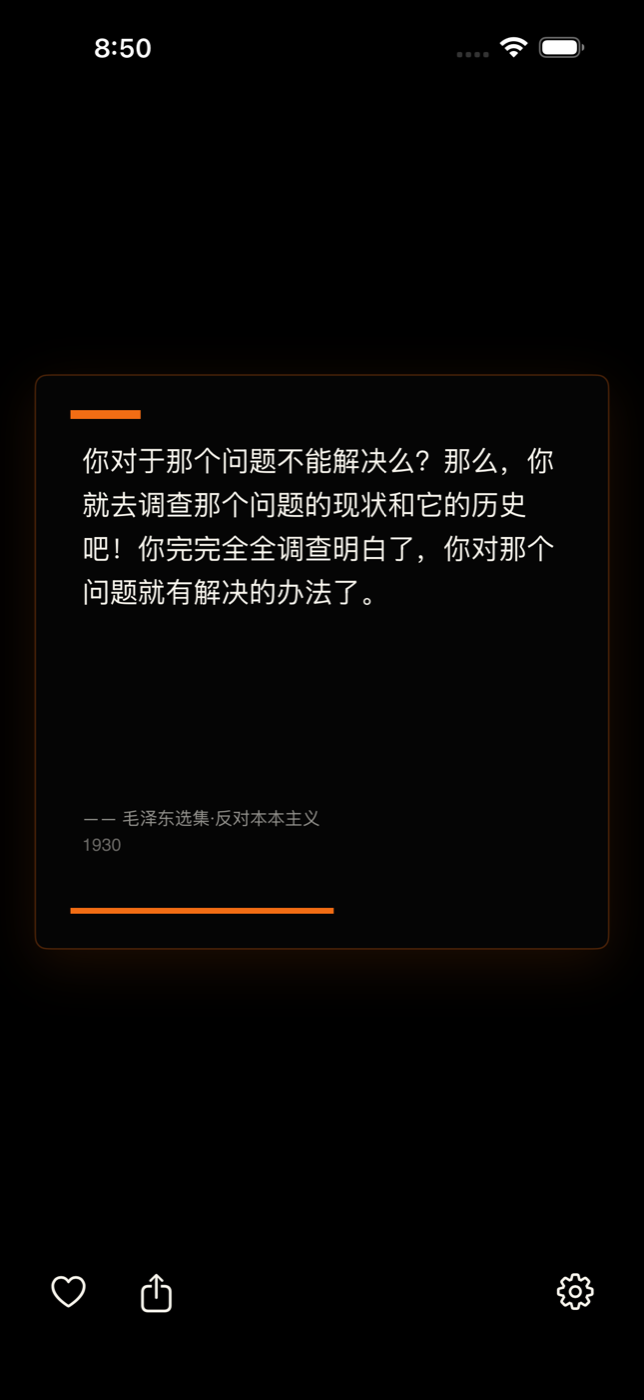
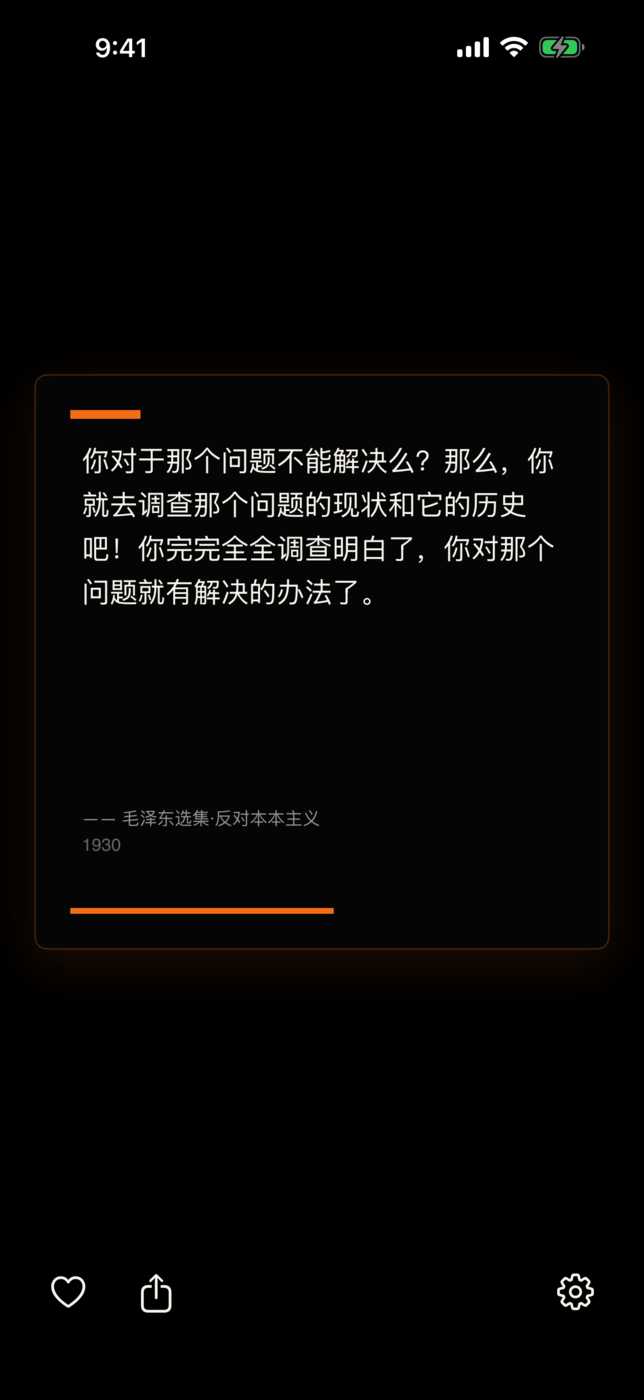
Refresh One Page 1.2.0 visuals

diff --git a/index-en.html b/index-en.html
@@ -3,6 +3,8 @@
 <head>
     <meta charset="UTF-8">
     <meta name="viewport" content="width=device-width, initial-scale=1.0">
+    <link rel="icon" type="image/png" href="images/onepage-app-icon.png">
+    <link rel="apple-touch-icon" href="images/onepage-app-icon.png">
     <title>One Page - Open a page. Get a line. Close.</title>
     <meta name="description" content="One Page is a quiet card reading tool. Not a reader. Not a learning app. Like flipping through physical cards—random, effortless, no agenda.">
     <meta name="keywords" content="One Page, Card Reading, Quote App, Minimalist iOS App, Historical Quotes">

diff --git a/index.html b/index.html
@@ -3,6 +3,8 @@
 <head>
     <meta charset="UTF-8">
     <meta name="viewport" content="width=device-width, initial-scale=1.0">
+    <link rel="icon" type="image/png" href="images/onepage-app-icon.png">
+    <link rel="apple-touch-icon" href="images/onepage-app-icon.png">
     <title>一页 - 翻开一页，获得一句</title>
     <meta name="description" content="一页是一个安静的卡片阅读工具。不是阅读器，不是学习工具。像翻实体卡片一样，随手一张，不求甚解。">
     <meta name="keywords" content="一页, One Page, 卡片阅读, 历史文摘, iOS App">

diff --git a/privacy-en.html b/privacy-en.html
@@ -3,6 +3,8 @@
 <head>
     <meta charset="UTF-8">
     <meta name="viewport" content="width=device-width, initial-scale=1.0">
+    <link rel="icon" type="image/png" href="images/onepage-app-icon.png">
+    <link rel="apple-touch-icon" href="images/onepage-app-icon.png">
     <title>Privacy Policy - One Page</title>
     <meta name="description" content="One Page App Privacy Policy. We collect no data. It's that simple.">
     <style>

diff --git a/privacy.html b/privacy.html
@@ -3,6 +3,8 @@
 <head>
     <meta charset="UTF-8">
     <meta name="viewport" content="width=device-width, initial-scale=1.0">
+    <link rel="icon" type="image/png" href="images/onepage-app-icon.png">
+    <link rel="apple-touch-icon" href="images/onepage-app-icon.png">
     <title>隐私政策 - 一页</title>
     <meta name="description" content="一页 App 隐私政策。我们不收集任何数据。">
     <style>

diff --git a/terms-en.html b/terms-en.html
@@ -3,6 +3,8 @@
 <head>
     <meta charset="UTF-8">
     <meta name="viewport" content="width=device-width, initial-scale=1.0">
+    <link rel="icon" type="image/png" href="images/onepage-app-icon.png">
+    <link rel="apple-touch-icon" href="images/onepage-app-icon.png">
     <title>Terms of Service - One Page</title>
     <meta name="description" content="One Page App Terms of Service.">
     <style>

diff --git a/support-en.html b/support-en.html
@@ -3,6 +3,8 @@
 <head>
     <meta charset="UTF-8">
     <meta name="viewport" content="width=device-width, initial-scale=1.0">
+    <link rel="icon" type="image/png" href="images/onepage-app-icon.png">
+    <link rel="apple-touch-icon" href="images/onepage-app-icon.png">
     <title>Support - One Page</title>
     <meta name="description" content="One Page App support and help.">
     <style>

diff --git a/terms.html b/terms.html
@@ -3,6 +3,8 @@
 <head>
     <meta charset="UTF-8">
     <meta name="viewport" content="width=device-width, initial-scale=1.0">
+    <link rel="icon" type="image/png" href="images/onepage-app-icon.png">
+    <link rel="apple-touch-icon" href="images/onepage-app-icon.png">
     <title>服务条款 - 一页</title>
     <meta name="description" content="一页 App 服务条款。">
     <style>

diff --git a/support.html b/support.html
@@ -3,6 +3,8 @@
 <head>
     <meta charset="UTF-8">
     <meta name="viewport" content="width=device-width, initial-scale=1.0">
+    <link rel="icon" type="image/png" href="images/onepage-app-icon.png">
+    <link rel="apple-touch-icon" href="images/onepage-app-icon.png">
     <title>支持 - 一页</title>
     <meta name="description" content="一页 App 支持与帮助。">
     <style>
